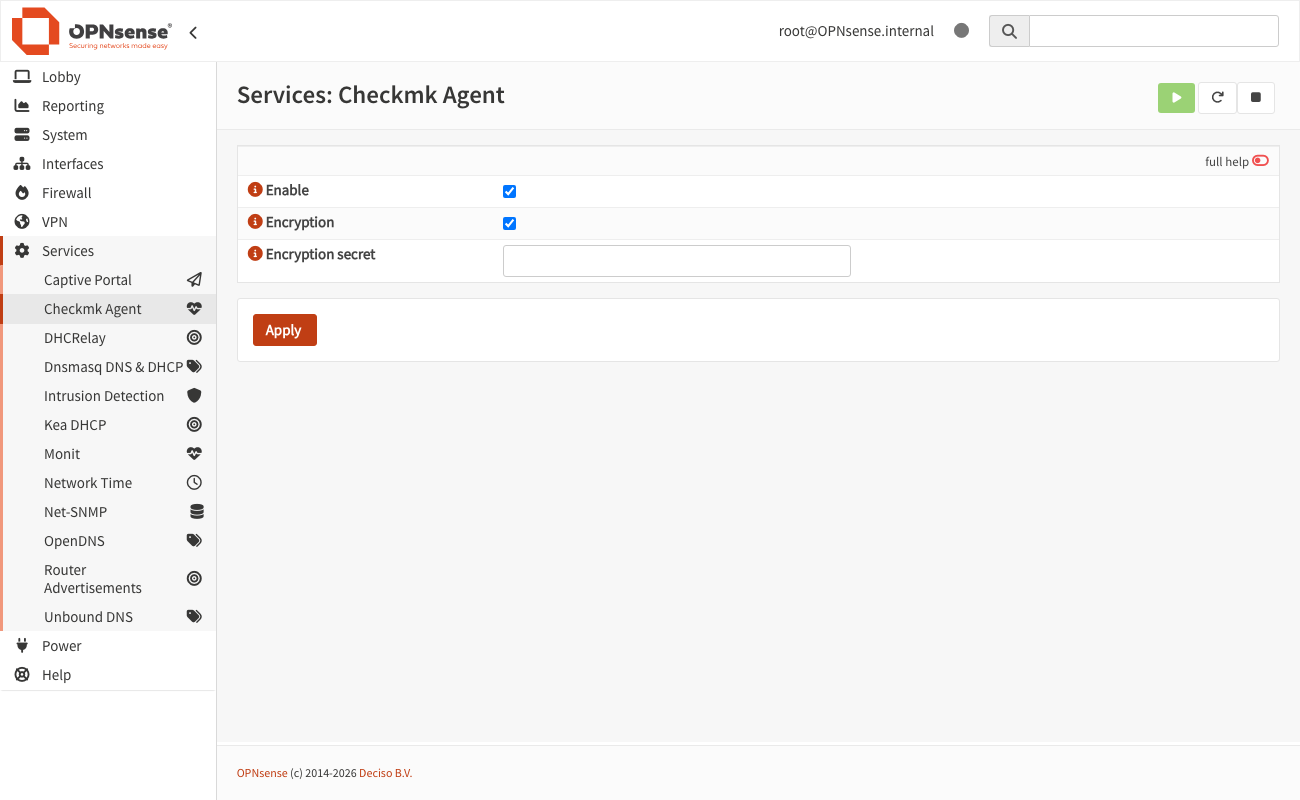
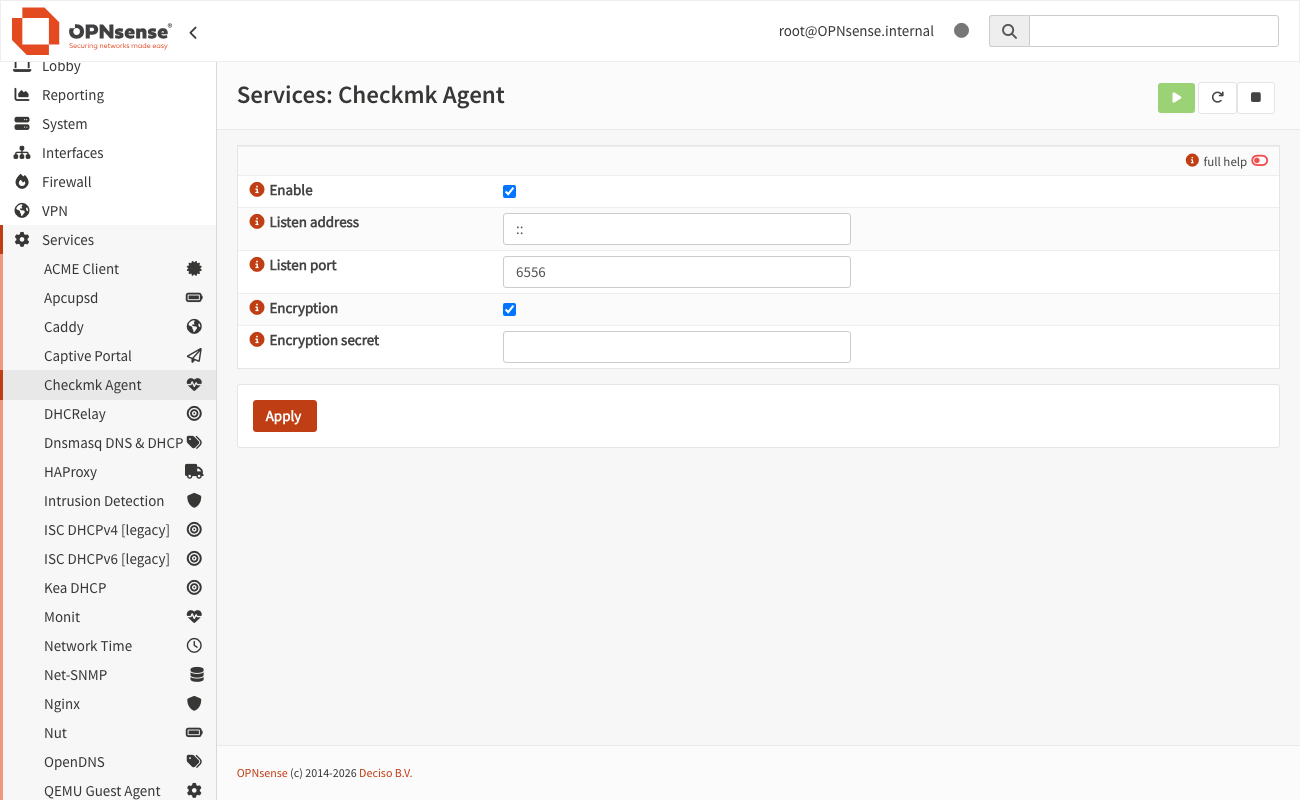
docs: listen address, port and high availability
Sync the plugin copy with the upstream pull request after the second
review and describe the listen address, the port and the HA sync.

diff --git a/docs/DEVELOPMENT.md b/docs/DEVELOPMENT.md
@@ -15,30 +15,41 @@ scripts/sync_plugin.sh ../opnsense_plugins
 
 ## Design
 
-- **Listener:** `socat` listens on TCP 6556 (IPv4 and IPv6, `TCP6-LISTEN` with
-  `ipv6only=0`), at most 4 queries at a time, and runs the agent wrapper for each
-  query. `daemon(8)` starts it from the plugin's own rc.d script `checkmkagent`.
-  `-t 30` lets socat wait for the agent's answer after the client has closed its
-  sending side.
+- **Listener:** `socat` listens on the configured address and port (default
+  `127.0.0.1:6556`; `::` gives `TCP6-LISTEN` with `ipv6only=0` for IPv4 and
+  IPv6), at most 4 queries at a time, and runs the agent wrapper for each query.
+  `daemon(8)` starts it from the plugin's own rc.d script `checkmkagent`, which
+  reads address, port and encryption from `/etc/rc.conf.d/checkmkagent`. `-t 30`
+  lets socat wait for the agent's answer after the client has closed its
+  sending side. The FreeBSD port ships only the agent script, no service
+  script.
 - **Why not inetd:** inetd on FreeBSD 15 resolves ports only by name from
   `/etc/services` (`getservbyname()`), and 6556 is not listed there. A plugin
   should not modify system files.
 - **Why not the rc.d script of the socat package:** it uses one global instance
   file that admins may use for their own purposes.
-- **Access control:** firewall rules created by the admin, as with
-  node_exporter, netdata and net-snmp.
+- **Access control:** loopback by default (review of the upstream pull
+  request); for network queries the admin picks the listen address and creates
+  firewall rules, as with node_exporter, netdata and net-snmp.
 - **Configuration:** configd templates write `/etc/rc.conf.d/checkmkagent` and
   `/usr/local/etc/checkmkagent/secret`. "Apply" in the GUI stops the service,
   reloads the templates and starts it again if enabled
   (`ApiMutableServiceControllerBase`). OPNsense starts it at boot via
   `rc.freebsd`.
 - **Encryption:** `src/opnsense/scripts/checkmkagent/agent` runs
-  `check_mk_agent` and, if a secret is set, encrypts its output in format `05`
-  with the base system's `openssl`. FreeBSD has no `xxd`, so hex is decoded with
-  `printf` octal escapes.
-- **Secret permissions:** templates copy the permissions of the target
-  directory. `+POST_INSTALL.pre` creates `/usr/local/etc/checkmkagent` with mode
-  `0700` before the first template reload, so the secret file gets `0600`.
+  `check_mk_agent` and, when called with `encrypt`, encrypts its output in
+  format `05` with the base system's `openssl`. It follows
+  `optionally_encrypt()` and `encrypt_then_mac()` of Checkmk's Linux agent
+  (`check_mk_agent.linux`). Differences: the secret goes to `openssl` through a
+  file descriptor instead of `-k`, and hex is decoded with `printf` octal
+  escapes, as FreeBSD has no `xxd`. An empty or unreadable secret gives only
+  `EncryptionPanic`, never plain text.
+- **Secret file:** contains only the secret. `setup.sh` (run by rc.subr as
+  `checkmkagent_setup` before each start) sets the directory
+  `/usr/local/etc/checkmkagent` to `0700` and the file to `0600`. Before the
+  first start, the template engine creates them as `0750`/`0640` root:wheel.
+- **High availability:** `checkmkagent_xmlrpc_sync()` offers the settings for
+  the HA configuration sync, like nrpe and zabbix-agent.
 - **Stock output:** the plugin adds nothing to the agent output (review of the
   upstream pull request). Optional agent plugins live in `extras/agent-plugins/`
   of this repository, outside the OPNsense plugin.
@@ -53,15 +64,15 @@ scripts/sync_plugin.sh ../opnsense_plugins
 net-mgmt/checkmk-agent/
 ├── Makefile                 PLUGIN_DEPENDS=check_mk_agent socat
 ├── pkg-descr                plugin details shown in the firmware GUI
-├── +POST_INSTALL.pre        secret directory 0700
 └── src/
-    ├── etc/inc/plugins.inc.d/checkmkagent.inc    service list entry
+    ├── etc/inc/plugins.inc.d/checkmkagent.inc    service list entry, HA sync
     ├── etc/rc.d/checkmkagent                     start/stop (socat line)
     └── opnsense/
         ├── mvc/app/models/OPNsense/CheckmkAgent/       model, menu, ACL
         ├── mvc/app/controllers/OPNsense/CheckmkAgent/  controllers, form
         ├── mvc/app/views/OPNsense/CheckmkAgent/index.volt
         ├── scripts/checkmkagent/agent                  wrapper with encryption
+        ├── scripts/checkmkagent/setup.sh               secret permissions
         └── service/
             ├── conf/actions.d/actions_checkmkagent.conf
             └── templates/OPNsense/CheckmkAgent/        rc.conf.d, secret
@@ -87,27 +98,38 @@ make upgrade                          # build and install the package
 `register.php` is only needed for a package installed from source; otherwise the
 firmware page shows the plugin as "misconfigured".
 
-Test cases (all passed on OPNsense 26.7 and 26.1.11, 2026-11-16, build 1.0-rc5):
+Test cases (all passed on OPNsense 26.7.9 and 26.1.11, 2026-11-18, source state
+of the upstream pull request after the second review; earlier runs: 1.0-rc5,
+2026-11-16):
 
-1. `make lint`, `make sweep` (no changes), phpcs with the core ruleset (`make
-   style`) and ShellCheck without findings
-2. fresh install from the release: `check_mk_agent` and `socat` come along,
-   agent disabled, secret directory `0700`, file `0600`
+1. `make lint`, `make sweep` (no changes), phpcs with the core ruleset and
+   ShellCheck (only the usual rc.d notes) without findings
+2. fresh install on a system that never had the plugin: agent disabled,
+   defaults `127.0.0.1:6556` without encryption; after Enable it listens on
+   loopback only, secret directory `0700`, file `0600`
 3. settings, Apply and status through the real API (as the GUI does it); invalid
-   values are refused; GUI page loads without JavaScript errors
-4. agent answers on IPv4 and IPv6, output is the stock output (21 sections)
+   address or port is refused; GUI page with the new fields loads without
+   JavaScript errors
+4. listen address loopback (no answer from the LAN), `::` (IPv4 and IPv6), a
+   fixed IPv4 and IPv6 address, another port; output is the stock output
 5. encryption with a secret containing special characters: decrypted by
-   Checkmk's own `decrypt_by_agent_protocol` (2.4, 2.5, 3.0); wrong secret gives
-   "MAC mismatch"; encryption without secret gives only `EncryptionPanic`; the
-   secret never shows up in the process list
+   Checkmk's own `decrypt_by_agent_protocol` (2.4.0p41, 2.5.0p20, 3.0 daily);
+   wrong secret gives "MAC mismatch"; empty secret or a non-root caller gives
+   only `EncryptionPanic`; the secret never shows up in the process list
 6. real sites with the encryption rule (2.4.0p41, 2.5.0p20, 3.0 daily): 25
-   services each; with encryption enforced, plain text is refused
-7. SSH query with `command=`: agent output only, port forwarding refused
-8. reboot: agent starts by itself, encrypted
-9. upgrade while running: agent keeps running
-10. uninstall: package gone; port open until reboot but no data
-11. on the production firewall (26.1): install, enable/disable, encryption,
-    reinstall while running, Checkmk 2.5.0p19 queries it
+   services each; with encryption enforced, plain text is refused (2026-11-16)
+7. SSH query with `command=` while the listener is on loopback: agent output
+   only, port forwarding refused
+8. reboot: agent starts by itself (26.7 encrypted, 26.1 on `::`)
+9. upgrade of an existing configuration without the new fields: agent keeps
+   working with the defaults until the address is set
+10. uninstall: package gone; port open until restart but no data; generated
+    files and the `config.xml` section stay
+11. HA pair (26.7): configuration sync incl. secret to the backup node, restart
+    via *High Availability › Status*; both nodes listen on a CARP address; CARP
+    failover moves the query to the backup node and back
+12. on the production firewall (26.1): upgrade, listen address `::` and
+    loopback, encryption, reboot, Checkmk 2.5.0p19 queries it
 
 ## Checkmk test sites
 

diff --git a/README.md b/README.md
@@ -7,7 +7,8 @@ processes, uptime, NTP and more.
 
 The plugin is a switch in the OPNsense GUI around two packages from the OPNsense
 repository: `check_mk_agent` (the Checkmk agent for FreeBSD) and `socat` (makes
-it reachable on TCP port 6556). It adds optional symmetric encryption and
+it reachable over TCP, port 6556 by default). It adds a listen address and port,
+optional symmetric encryption, configuration sync for high availability and
 nothing else: the agent output stays exactly as the port delivers it.
 
 > **Tip:** combine it with the Checkmk API agent
@@ -29,6 +30,7 @@ nothing else: the agent output stays exactly as the port delivers it.
 - [Manual installation](#manual-installation)
 - [Encryption](#encryption)
 - [Query over SSH](#query-over-ssh)
+- [High availability](#high-availability)
 - [Own agent plugins and local checks](#own-agent-plugins-and-local-checks)
 - [Updates](#updates)
 - [OPNsense data from the REST API](#opnsense-data-from-the-rest-api)
@@ -47,7 +49,7 @@ flowchart LR
         CFG[("config.xml")]
         RC["rc.d checkmkagent"]
         FW["Firewall rule<br/>TCP 6556"]
-        SOCAT["socat<br/>TCP 6556, IPv4 + IPv6"]
+        SOCAT["socat<br/>listen address + port<br/>default 127.0.0.1:6556"]
         WRAP["agent wrapper<br/>optional encryption"]
         AGENT["check_mk_agent<br/>+ own plugins / local checks"]
         API["OPNsense REST API"]
@@ -78,25 +80,35 @@ agent provides:
 
 | Component | Version | Result |
 |---|---|---|
-| OPNsense 26.7 | 26.7 (FreeBSD 15.1), `check_mk_agent` 2.5.0p15, `socat` 1.8.1.3 | fresh install from the release, settings and apply via GUI/API, IPv4/IPv6, encryption, SSH, reboot, upgrade, uninstall: OK (2026-11-16) |
-| OPNsense 26.1 | 26.1.11_10 (FreeBSD 14.3), `check_mk_agent` 2.4.0p20, `socat` 1.8.1.1 | install from the release, enable/disable, encryption, reinstall while running, queried by Checkmk 2.5.0p19 in production: OK (2026-11-16, long-term test running) |
-| Checkmk 2.4 | `checkmk/check-mk-cloud:2.4.0p41` | encrypted query and service discovery (25 services): OK (2026-11-16) |
-| Checkmk 2.5 | `checkmk/check-mk-ultimate:2.5.0p20` | encrypted query with encryption enforced, plain text refused, service discovery (25 services): OK (2026-11-16) |
-| Checkmk 3.0 | `checkmk/check-mk-ultimate:3.0.0-2026.11.16` (daily) | encrypted query and service discovery (25 services): OK (2026-11-16) |
+| OPNsense 26.7 | 26.7.9 (FreeBSD 15.1), `check_mk_agent` 2.5.0p15, `socat` 1.8.1.3 | fresh install, settings and apply via GUI/API, listen address (loopback, `::`, IPv4, IPv6, CARP address) and port, encryption, SSH, reboot, upgrade of an existing configuration, uninstall; HA pair: configuration sync and CARP failover: OK (2026-11-18) |
+| OPNsense 26.1 | 26.1.11_10 (FreeBSD 14.3), `check_mk_agent` 2.4.0p20, `socat` 1.8.1.1 | upgrade of an existing configuration, listen address `::` and loopback, encryption, reboot, queried by Checkmk 2.5.0p19 in production: OK (2026-11-18, long-term test running) |
+| Checkmk 2.4 | `checkmk/check-mk-cloud:2.4.0p41` | encrypted query: OK (2026-11-18); service discovery (25 services): OK (2026-11-16) |
+| Checkmk 2.5 | `checkmk/check-mk-ultimate:2.5.0p20` | encrypted query: OK (2026-11-18); encryption enforced, plain text refused, service discovery (25 services): OK (2026-11-16) |
+| Checkmk 3.0 | `checkmk/check-mk-ultimate:3.0.0-2026.11.16` (daily) | encrypted query: OK (2026-11-18); service discovery (25 services): OK (2026-11-16) |
+
+The tests of 2026-11-18 cover the current source in `net-mgmt/checkmk-agent/`
+(listen address, port, HA sync). The release 1.0-rc5 still listens on all
+addresses on port 6556 and has no address and port fields.
 
 ## Setup
 
 1. Install the plugin under *System › Firmware › Plugins* (`os-checkmk-agent`).
    `check_mk_agent` and `socat` are installed with it. As long as the plugin is
    not in the official list, see [Manual installation](#manual-installation).
-2. *Services › Checkmk Agent*: check **Enable** and click **Apply**.
+2. *Services › Checkmk Agent*: check **Enable**, set the **Listen address** and
+   click **Apply**. The default `127.0.0.1` accepts local queries only (for
+   example [over SSH](#query-over-ssh)). For queries over the network, enter the
+   firewall's address towards the Checkmk server, `0.0.0.0` (all IPv4
+   addresses) or `::` (all IPv4 and IPv6 addresses). The **Listen port** is
+   6556, the port Checkmk queries by default.
 3. *Firewall › Rules*, on the interface the Checkmk server comes from: allow
-   TCP to port 6556 on *This Firewall*, with the Checkmk server as source.
+   TCP to the listen port on *This Firewall*, with the Checkmk server as source.
 4. In Checkmk, add the firewall as a host with "Checkmk agent (Server)" and run
    the service discovery.
 
-The plugin never opens the port itself. Who may query the agent is decided only
-by the firewall rule, so restrict the source to your Checkmk server.
+The plugin never opens the port in the firewall itself. Who may query the agent
+is decided by the listen address and the firewall rule, so restrict the source
+to your Checkmk server.
 
 ## Manual installation
 
@@ -176,11 +188,22 @@ Thanks to `command=`, the key runs only the agent: any other command still
 returns the agent output, and port forwarding is refused (tested on 26.7). The
 agent then runs as the user `checkmk` instead of root and delivers the same
 sections.
+The agent service of the plugin is not needed for this: SSH runs the agent
+directly, whatever the listen address is.
 Over SSH the transport is encrypted by SSH itself, so point `command=` to
 `/usr/local/bin/check_mk_agent` as shown. The *Encryption* setting of the plugin
 applies to port 6556 only; Checkmk reads the plain SSH output even with an
 encryption rule for the host (tested with 2.5.0p19). Enable the plugin's agent service only if
 you also want port 6556.
+
+## High availability
+
+In an HA pair, select *Checkmk Agent* under *System › High Availability ›
+Settings* to synchronize the settings, including the secret, to the backup node.
+As both nodes get the same listen address, use `::`, `0.0.0.0` or a CARP
+address: both nodes listen on a CARP address, and the query reaches the node
+that is master. A fixed address of only one node does not exist on the other,
+so the agent would not start there.
 
 ## Own agent plugins and local checks
 
@@ -260,7 +283,7 @@ not part of it today.
 ## Uninstalling
 
 Remove the plugin under *System › Firmware › Plugins* and the firewall rule for
-port 6556. Until the next reboot the port stays open, but returns no data (the
+the listen port. Until the next reboot the port stays open, but returns no data (the
 agent wrapper is gone with the package). The stored secret remains in
 `/usr/local/etc/checkmkagent/` and in `config.xml`; delete the directory if you
 do not reinstall the plugin.

diff --git a/docs/COMPARISON.md b/docs/COMPARISON.md
@@ -96,8 +96,9 @@ Both queried at the same time from fresh Checkmk 2.5.0p19 sites, same OPNsense
 Why the agent is the better fit for a firewall:
 
 - **Security:** SNMPv2c sends the community string and all data in plain text;
-  SNMPv3 needs extra users and settings on both sides. The agent is reached only
-  through a firewall rule and can encrypt its output (or run over SSH).
+  SNMPv3 needs extra users and settings on both sides. The agent listens on
+  loopback by default, is reached only through the chosen listen address and a
+  firewall rule, and can encrypt its output (or run over SSH).
 - **Fewer moving parts:** one TCP connection per check interval returns all data;
   SNMP walks many tables over UDP.
 - **Built-in checks:** the agent's sections are evaluated by Checkmk's own checks

diff --git a/CHANGELOG.md b/CHANGELOG.md
@@ -6,9 +6,15 @@
 
 - After the upstream review: the plugin keeps the agent output stock (no bundled
   agent plugins), has no deinstall/upgrade hooks and a short description.
+- After the second upstream review: listen address (default `127.0.0.1`) and
+  port (default 6556) are settings; `setup.sh` instead of a package hook sets
+  the secret permissions; the secret file holds only the secret; the encryption
+  wrapper follows Checkmk's Linux agent more closely.
 
 ### Added
 
+- Configuration sync for high availability (*System › High Availability ›
+  Settings*).
 - OPNsense plugin `os-checkmk-agent` 1.0: runs the Checkmk agent on TCP port
   6556 (IPv4 and IPv6) via `socat`, switchable in the GUI under
   *Services › Checkmk Agent*.
